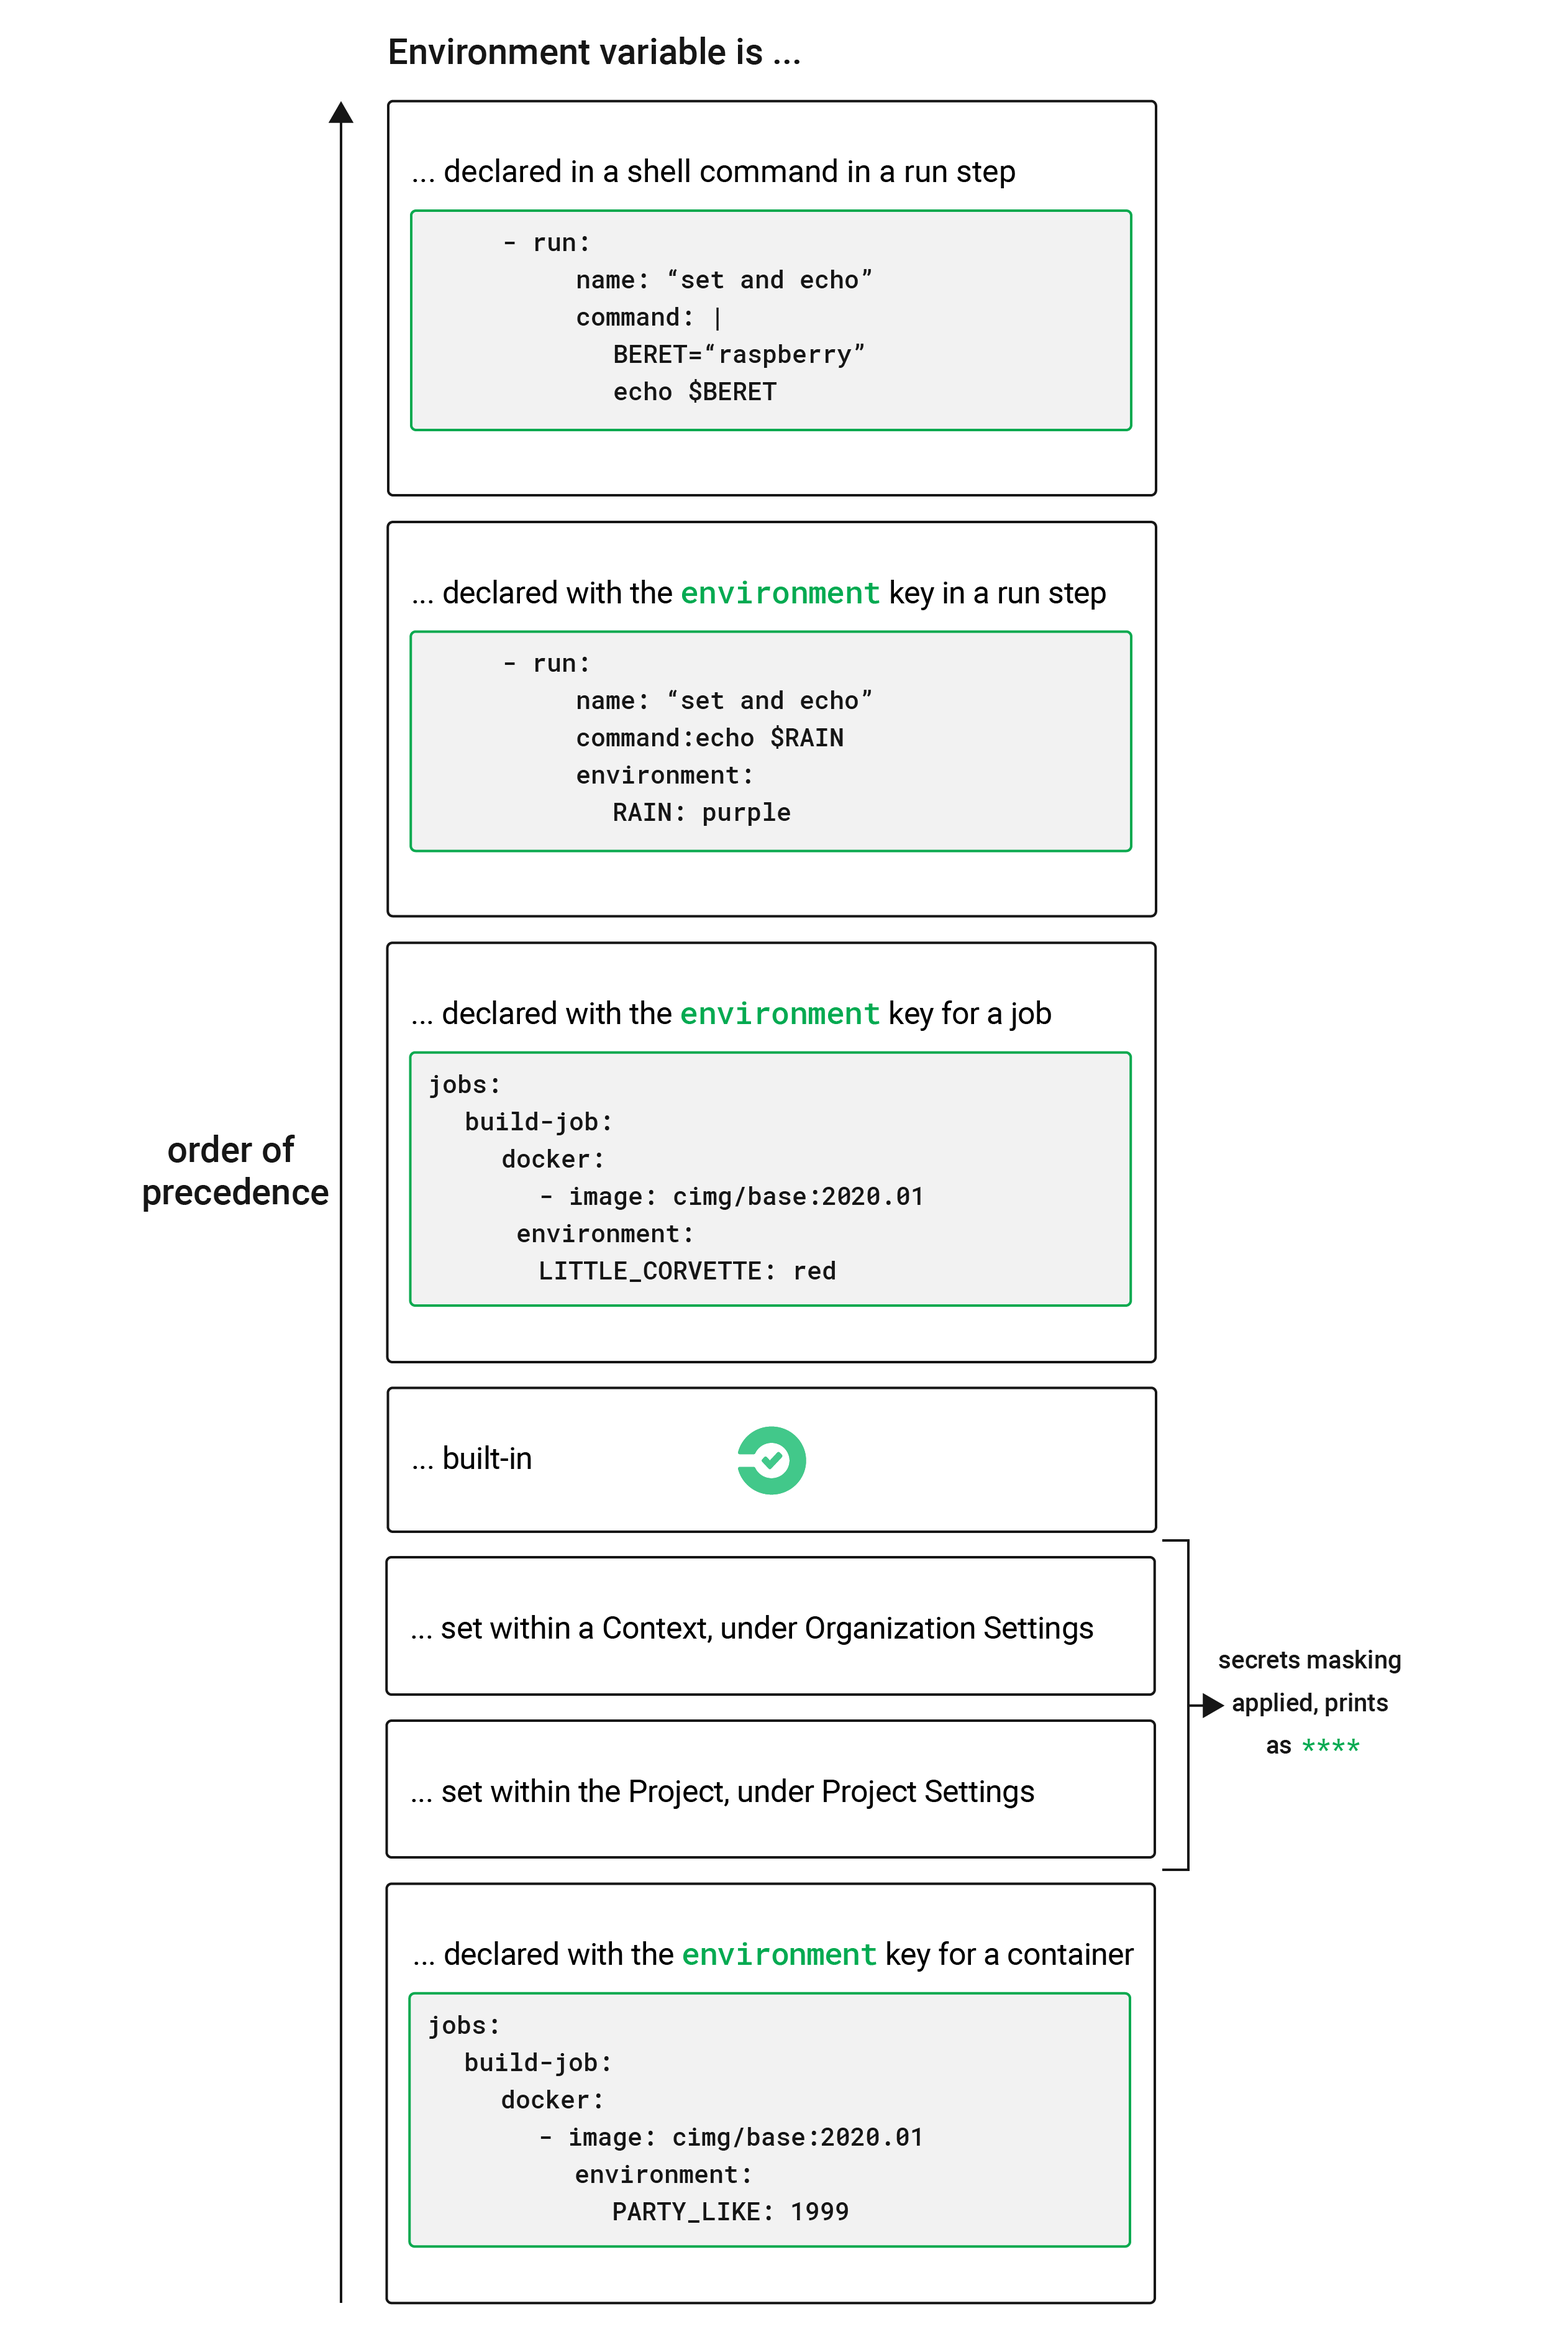
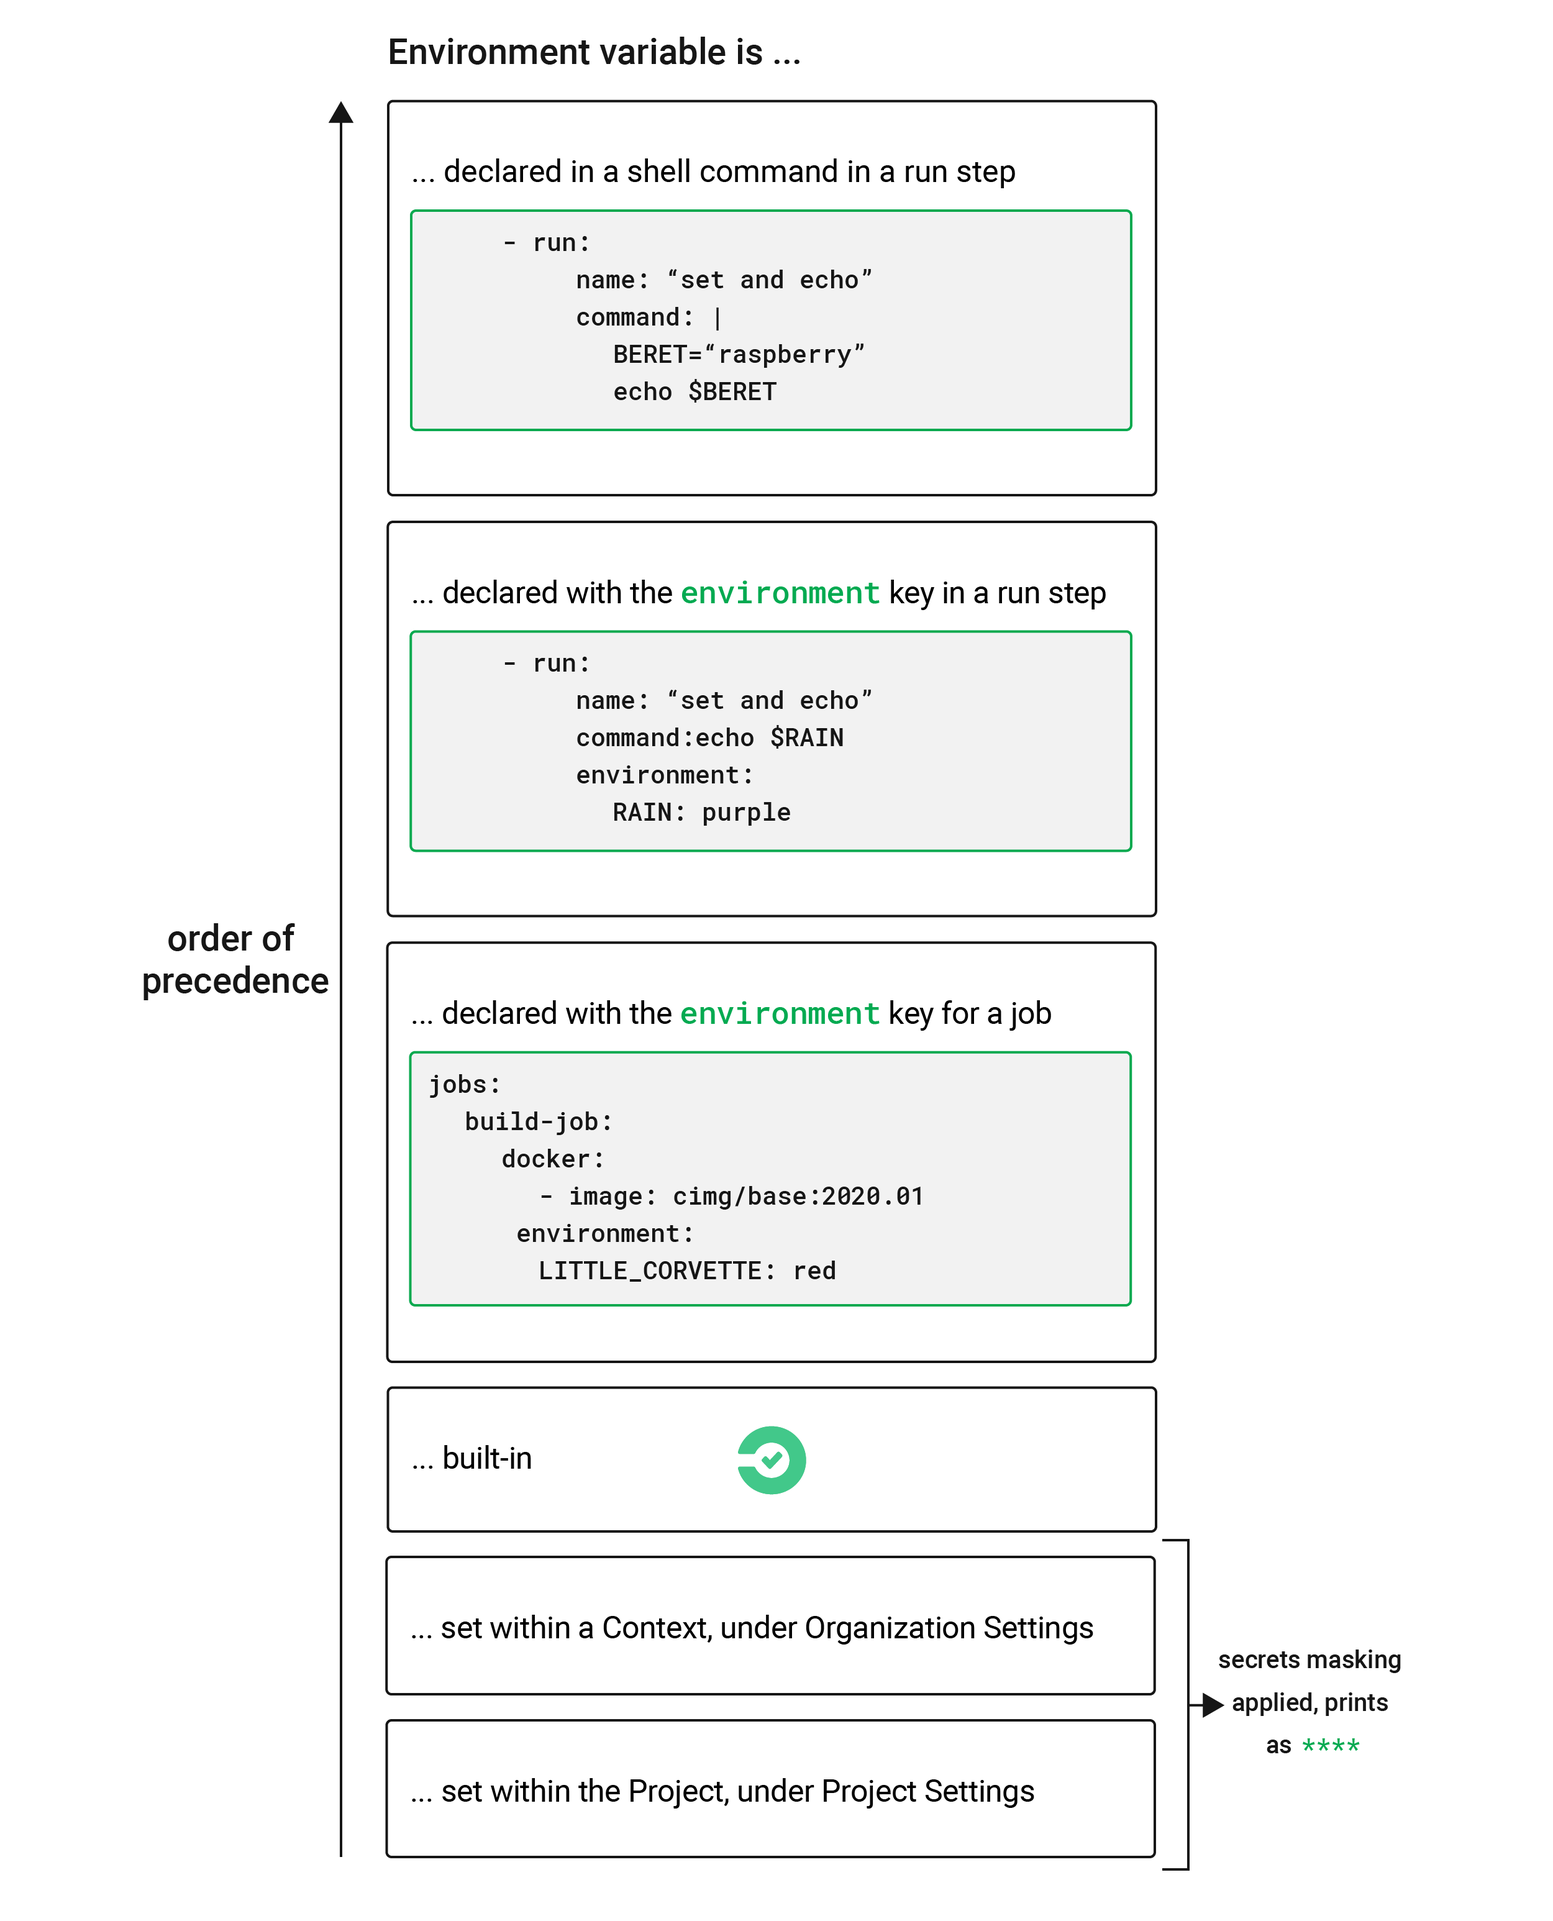
update image and make container env var description clearer

diff --git a/jekyll/_cci2/env-vars.md b/jekyll/_cci2/env-vars.md
@@ -49,7 +49,6 @@ Environment variables are used according to a specific precedence order, as foll
 4. Special CircleCI environment variables defined in the [CircleCI Built-in Environment Variables](#built-in-environment-variables) section of this document.
 5. Context environment variables (assuming the user has access to the Context). See the [Contexts]( {{ site.baseurl }}/2.0/contexts/) documentation for instructions.
 6. [Project-level environment variables](#setting-an-environment-variable-in-a-project) set on the Project Settings page.
-7. Environment variables set with the `environment` key [for a container](#setting-an-environment-variable-in-a-container).
 
 Environment variables declared inside a shell command `run step`, for example `FOO=bar make install`, will override environment variables declared with the `environment` and `contexts` keys. Environment variables added on the Contexts page will take precedence over variables added on the Project Settings page.
 
@@ -251,44 +250,6 @@ jobs:
       FOO: bar
 ```
 
-## Setting an Environment Variable in a Container
-
-To set an environment variable for a container, use the [`environment` key]({{ site.baseurl }}/2.0/configuration-reference/#docker--machine--macos--windows-executor).
-
-```yaml
-version: 2.1 
-
-jobs:
-  build:
-    docker:
-      - image: smaant/lein-flyway:2.7.1-4.0.3
-      # environment variables available for entrypoint/command run by docker container
-      environment:
-          FLASK_CONFIG: testing
-          TEST_DATABASE_URL: postgresql://ubuntu@localhost/circle_test?sslmode=disable
-      
-        
-```
-
-The following example shows separate environment variable settings for the primary container image (listed first) and the secondary or service container image.
-
-```yaml
-version: 2.1
-
-jobs:
-  build:
-    docker:
-      - image: circleci/python:3.6.2-jessie
-      environment:
-          FLASK_CONFIG: testing
-          TEST_DATABASE_URL: postgresql://ubuntu@localhost/circle_test?sslmode=disable
-      - image: circleci/postgres:9.6
-      environment:
-          POSTGRES_USER: conductor
-          POSTGRES_DB: conductor_test
-      
-```
-
 ## Setting an Environment Variable in a Context
 
 1. In the CircleCI application, go to your organization settings by clicking the link in the left hand navigation.
@@ -353,6 +314,44 @@ jobs:
 ```
 
 Once created, environment variables are hidden and uneditable in the application. Changing an environment variable is only possible by deleting and recreating it.
+
+## Setting an Environment Variable in a Container
+
+Environment variable can also be set for a Docker container. To do this, use the [`environment` key]({{ site.baseurl }}/2.0/configuration-reference/#docker--machine--macos--windows-executor). **Note**: environment variables set in this way are not available to steps run within the container, these env vars are only available for the entrypoint/command run by the container.
+
+```yaml
+version: 2.1 
+
+jobs:
+  build:
+    docker:
+      - image: smaant/lein-flyway:2.7.1-4.0.3
+      # environment variables available for entrypoint/command run by docker container
+      environment:
+          FLASK_CONFIG: testing
+          TEST_DATABASE_URL: postgresql://ubuntu@localhost/circle_test?sslmode=disable
+      
+        
+```
+
+The following example shows separate environment variable settings for the primary container image (listed first) and the secondary or service container image.
+
+```yaml
+version: 2.1
+
+jobs:
+  build:
+    docker:
+      - image: circleci/python:3.6.2-jessie
+      environment:
+          FLASK_CONFIG: testing
+          TEST_DATABASE_URL: postgresql://ubuntu@localhost/circle_test?sslmode=disable
+      - image: circleci/postgres:9.6
+      environment:
+          POSTGRES_USER: conductor
+          POSTGRES_DB: conductor_test
+      
+```
 
 ### Encoding Multi-Line Environment Variables
 {:.no_toc}
